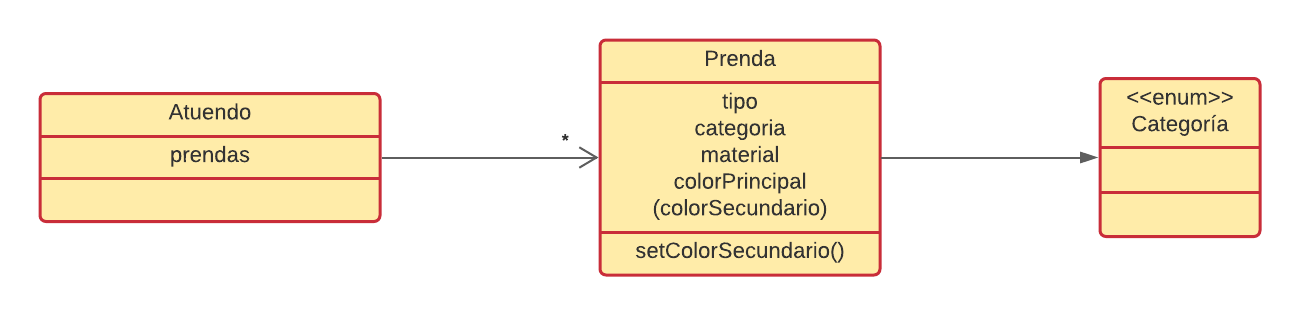
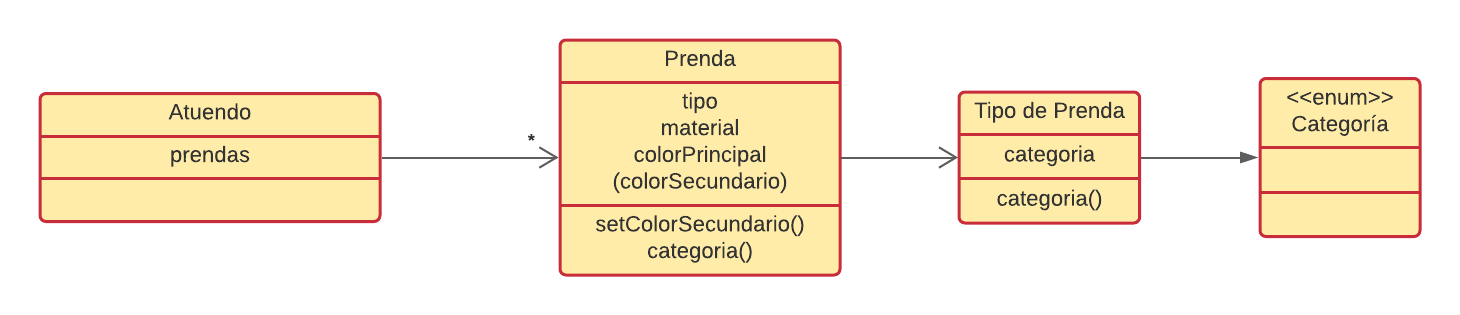
ultimas modificaciones

diff --git a/src/main/java/domain/ropa/Prenda.java b/src/main/java/domain/ropa/Prenda.java
@@ -2,19 +2,20 @@ package domain.ropa;
 
 public class Prenda {
 
-  private String tipoDePrenda;
-  private Categoria categoria;
+  private TipoDePrenda tipoDePrenda;
   private String material;
   private String colorPrincipal;
   private String colorSecundario;
 
-  public Prenda(String tipoDePrenda, Categoria categoria, String material, String colorPrincipal) {
+  public Prenda(TipoDePrenda tipoDePrenda, String material, String colorPrincipal) {
     this.tipoDePrenda = tipoDePrenda;
-    this.categoria = categoria;
     this.material = material;
     this.colorPrincipal = colorPrincipal;
   }
 
+  public Categoria identificarCategoria() {
+    return tipoDePrenda.categoria();
+  }
 
   // Esta es la manera que se me ocurrio de añadir un color secundario, aunque podría traer problemas ya que
   // si no se utilizase, colorSecundario quedaría en null

diff --git a/src/main/java/domain/ropa/TipoDePrenda.java b/src/main/java/domain/ropa/TipoDePrenda.java
@@ -1,0 +1,15 @@
+package domain.ropa;
+
+public class TipoDePrenda {
+
+  private Categoria categoria;
+
+  public TipoDePrenda(Categoria categoria) {
+    this.categoria = categoria;
+  }
+
+  public Categoria categoria() {
+    return categoria;
+  }
+
+}
